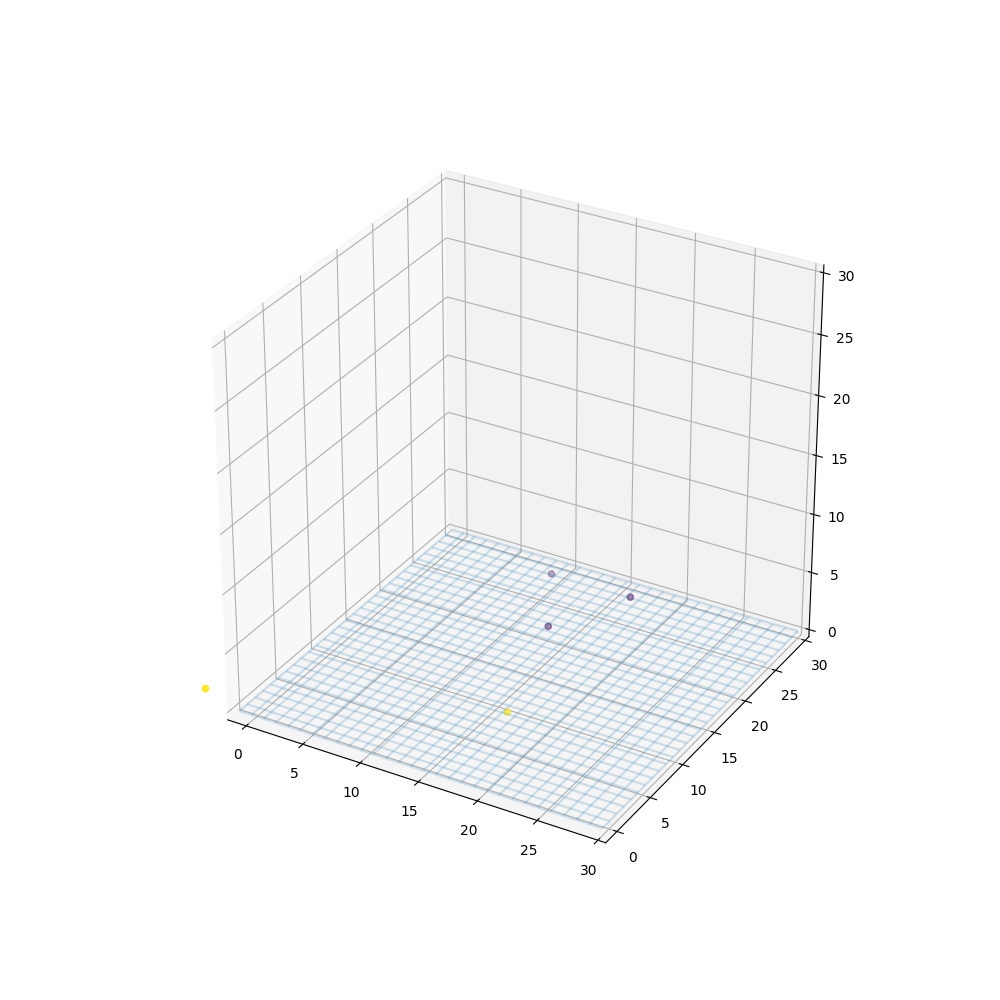
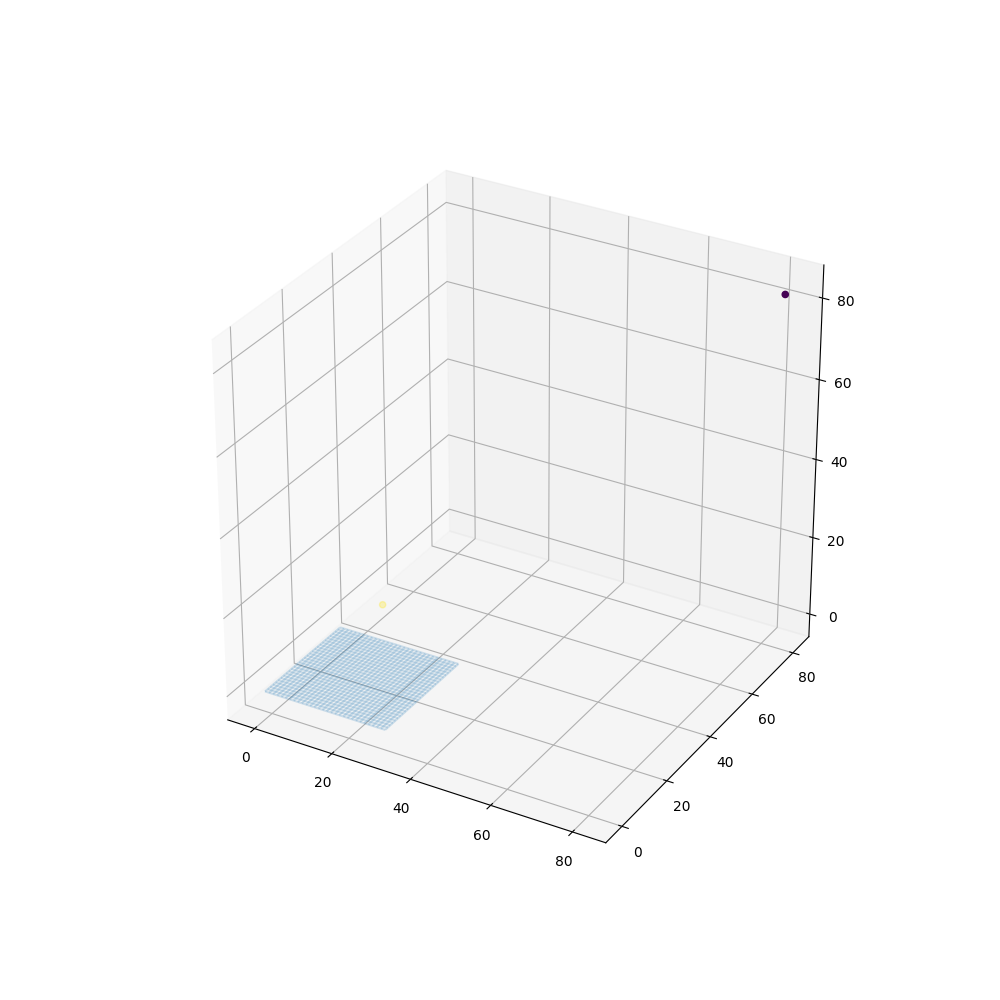
Added lop

diff --git a/kobayashi/ships/base_ship.py b/kobayashi/ships/base_ship.py
@@ -42,6 +42,12 @@ class Ship(metaclass=abc.ABCMeta):
     def __int__(self):
         return self.team
 
+    def register_AI(self, level):
+        if level == 0:
+            self.AI = None
+        if level == 1:
+            self.AI = Level1(self)
+
     def remove(self, arena):
         arena[self.coords] = None
         self.destroyed = True
@@ -65,10 +71,11 @@ class Ship(metaclass=abc.ABCMeta):
         if distance(self.coords, coords) <= self.speed:
             self._move(arena, coords)
         else:
-            dist = distance(self.coord, coords)
-            directionVector = [(self.coord[i]-coords[i])/dist for i in range(len(coords))]
-            travelVector = [math.floor(i*self.speed) for i in directionVector]
-            self._move(arena, travelVector)
+            d = distance(self.coords, coords)
+            new_loc = tuple(self.coords[i] + int(self.speed *
+                                ((coords[i] - self.coords[i]) / d))
+                            for i in range(len(coords)))
+            self._move(arena, new_loc)
 
     def move(self, arena, new_loc=None):
         # If given directions, try to move there
@@ -78,12 +85,8 @@ class Ship(metaclass=abc.ABCMeta):
             else:
                 self._move(arena, new_loc)
         # Otherwise use AI
-        # TODO different level of AI
-        elif self.command_ship is not None:
-            if self.AI:
-                self._move(arena, self.AI.new_pos(arena, self))
-            else:
-                pass
+        elif self.command_ship is None and self.AI is not None:
+            self.AI.move(arena)
 
         for ship in self.subordinates:
             ship.move()
@@ -99,6 +102,22 @@ class Ship(metaclass=abc.ABCMeta):
         return tuple(_ + random.randint(-1, 1)
                      for i, _ in enumerate(self.coords))
 
+    def within_range(self, ship):
+        for w in self.weapons:
+            if distance(self.coords, ship.coords) <= w.wrange:
+                return True
+        return False
+
+    def list_ships(self, arena):
+        ships = []
+        for coord, ship in arena.arena.items():
+            if ((ship.ship_class >= self.ship_class) and  #only target >= ship classes
+                    (ship.team != self.team)):
+                d = distance(self.coords, ship.coords)
+                ships.append((ship, d, self.threat_level(ship)))
+        ships = sorted(ships, key=lambda tup: (tup[0].ship_class, -tup[-1]))
+        return ships
+
     def list_close_ships(self, arena):
         """
         Returns a list of all ships sorted by threat level descending that are within range
@@ -111,7 +130,7 @@ class Ship(metaclass=abc.ABCMeta):
                 for w in self.weapons:
                     if d < w.wrange:
                         ships.append((ship, d, w, self.threat_level(ship)))
-        ships = sorted(ships, key=lambda tup: (ship.ship_class, -tup[-1]))
+        ships = sorted(ships, key=lambda tup: (tup[0].ship_class, -tup[-1]))
         num_within_range = len(ships)
         return ships, num_within_range
 

diff --git a/run_sim.py b/run_sim.py
@@ -7,22 +7,41 @@ import kobayashi as kob
 
 def main():
     arena = kob.arena.Arena()
-    arena.register_ship((0, 2, 1), kob.generate.generate_ship(kob.ships.Fighter))
-    arena.register_ship((10, 20, 2), kob.generate.generate_ship(kob.ships.Fighter))
-    arena.register_ship((13, 21, 2), kob.generate.generate_ship(kob.ships.Fighter))
-    arena.register_ship((18, 22, 2), kob.generate.generate_ship(kob.ships.Fighter))
-    arena.register_ship((13, 23, 2), kob.generate.generate_ship(kob.ships.Fighter))
-    arena.register_ship((15, 15, 0), kob.generate.generate_ship(kob.ships.Fighter))
+    arena.register_ship((0, 0, 0), kob.generate.generate_ship(kob.ships.Fighter))
+    arena.register_ship((100, 100, 100), kob.generate.generate_ship(kob.ships.Fighter))
 
-    for _ in range(20):
-        arena.tick()
-        # arena.show()
+    commands = {
+        'tick': arena.tick,
+        'savetick': arena.show,
+        'list': arena.list_ships,
+    }
 
+    while True:
+        try:
+            command = input('$--> ')
 
-    from player_fleet import phoenix
+            if command.lower() == 'exit':
+                break
+            elif command.lower() in ['help', '?']:
+                print(f'arena -> {type(arena)}')
+                for k, v in commands.items():
+                    print(f'{k} -> {v}')
+            else:
+                try:
+                    commands[command]()
+                except KeyError:
+                    try:
+                        try:
+                            results = eval(command)
+                            if results is not None:
+                                print(results)
+                        except SyntaxError:
+                            print('Syntax Error')
+                    except NameError:
+                        print("Command not found")
 
-    phoenix()
-
+        except (EOFError, KeyboardInterrupt) as e:
+            break
 
 
 

diff --git a/kobayashi/arena.py b/kobayashi/arena.py
@@ -16,9 +16,13 @@ class Arena(object):
         return str(self.arena)
 
     def __getitem__(self, key):
+        if isinstance(key, list):
+            key = tuple(key)
         return self.arena.get(key)
 
     def __setitem__(self, key, value):
+        if isinstance(key, list):
+            key = tuple(key)
         if value is None:
             self.arena.pop(key)
         else:
@@ -29,11 +33,19 @@ class Arena(object):
         self.arena[coords] = shipinstance
         self.ships.append(shipinstance)
 
+    def list_ships(self):
+        for ship in self.ships:
+            print(ship.team, ship.coords)
+
     def tick(self):
         self.framenum += 1
         for ship in self.ships:
             if ship.destroyed is False:
                 ship.tick(self)
+
+    def tickn(self, n):
+        for _ in range(n):
+            self.tick()
 
     def show(self):
         fig = plt.figure(figsize=(10, 10))
@@ -49,8 +61,8 @@ class Arena(object):
                 colors.append(ship.team)
         ax.scatter(*np.array(points).T, c=colors)
 
-        ax.set_xlim(-1, 30)
-        ax.set_ylim(-1, 30)
-        ax.set_zlim(0, 30)
+        # ax.set_xlim(-1, 30)
+        # ax.set_ylim(-1, 30)
+        # ax.set_zlim(0, 30)
 
         plt.savefig(f'./img/arena{self.framenum}.png')

diff --git a/kobayashi/ships/ship_ai/level1.py b/kobayashi/ships/ship_ai/level1.py
@@ -2,6 +2,10 @@ from .base_ai import ShipAI
 
 
 class Level1(ShipAI):
-    def new_pos(self, ship, arena):
-        enemies = [e for e in arena.ships if ship.team != e.team]
-        return (0, 0, 0)
+    def move(self, arena):
+        targets = self.ship.list_ships(arena)
+        if len(targets) != 0:
+            target, distance, threat = targets[0]
+            if not self.ship.within_range(target):
+                self.ship.move_towards(arena, target.coords)
+

diff --git a/kobayashi/generate.py b/kobayashi/generate.py
@@ -14,6 +14,7 @@ def generate_ship(shiptype):
     ship.register_crewmember(generate_pilot(), 'pilot')
     ship.team = random.randint(1, 3)
     ship.register_weapon(MultifocalLaser())
+    ship.register_AI(1)
     return ship
 
 

diff --git a/kobayashi/ships/ship_ai/base_ai.py b/kobayashi/ships/ship_ai/base_ai.py
@@ -1,5 +1,8 @@
 import abc
 
 class ShipAI(metaclass=abc.ABCMeta):
+    def __init__(self, ship):
+        self.ship = ship
+
     @abc.abstractmethod
-    def new_pos(self, ship, arena): pass
+    def move(self, ship, arena): pass
